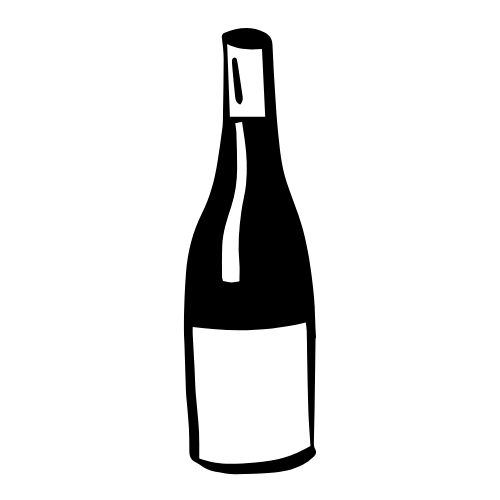
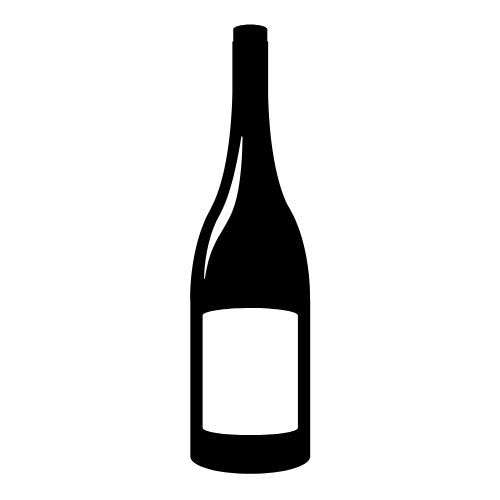
modified:   public/bottleicon.png

Changed region(s): [[0.36, 0.03, 0.63, 0.96]]

diff --git a/public/carta.html b/public/carta.html
@@ -82,10 +82,26 @@ nav button{ background:none; border:none; font-size:1em; cursor:pointer; color:v
   padding:0 12px; z-index:980; box-shadow:0 -2px 8px rgba(0,0,0,.15);
 }
 .bottom-btn{
-  flex:0 0 auto; height:40px; min-width:72px; border:none; border-radius:10px; background:transparent;
-  color: var(--bottom-bar-foreground, #fff); display:flex; align-items:center; justify-content:center; gap:8px;
-  font-size:.9em; font-weight:700;
+  flex:0 0 auto;
+  height:42px;
+  width:56px;
+  border:none;
+  border-radius:10px;
+  background:transparent;
+  color: var(--bottom-bar-foreground, #fff);
+  display:flex;
+  align-items:center;
+  justify-content:center;
+  font-size:.9em;
+  font-weight:700;
 }
+.bottom-btn img{
+  width:26px;
+  height:26px;
+  display:block;
+  filter: brightness(100%) contrast(100%);
+}
+
 .bottom-btn img{ width:18px; height:18px; display:block; filter: brightness(100%) contrast(100%); }
 
 /* =========================
@@ -2735,14 +2751,12 @@ if (rn) {
   </button>
 
   <button id="bottleBtn" class="bottom-btn" aria-label="Bottiglia">
-    <img src="bottleico.png" alt="" aria-hidden="true">
-    <span class="translate-label" data-key="formatBottle">Bottiglia</span>
-  </button>
+  <img src="bottleiconwhite.png" alt="Bottiglia" aria-hidden="true">
+</button>
 
-  <button id="glassBtn" class="bottom-btn" aria-label="Bicchiere">
-    <img src="glassico.png" alt="" aria-hidden="true">
-    <span class="translate-label" data-key="formatGlass">Bicchiere</span>
-  </button>
+<button id="glassBtn" class="bottom-btn" aria-label="Bicchiere">
+  <img src="glassiconwhite.png" alt="Bicchiere" aria-hidden="true">
+</button>
 </div>
 
 <!-- Popover di ricerca sopra al FAB (chiuso di default) -->
